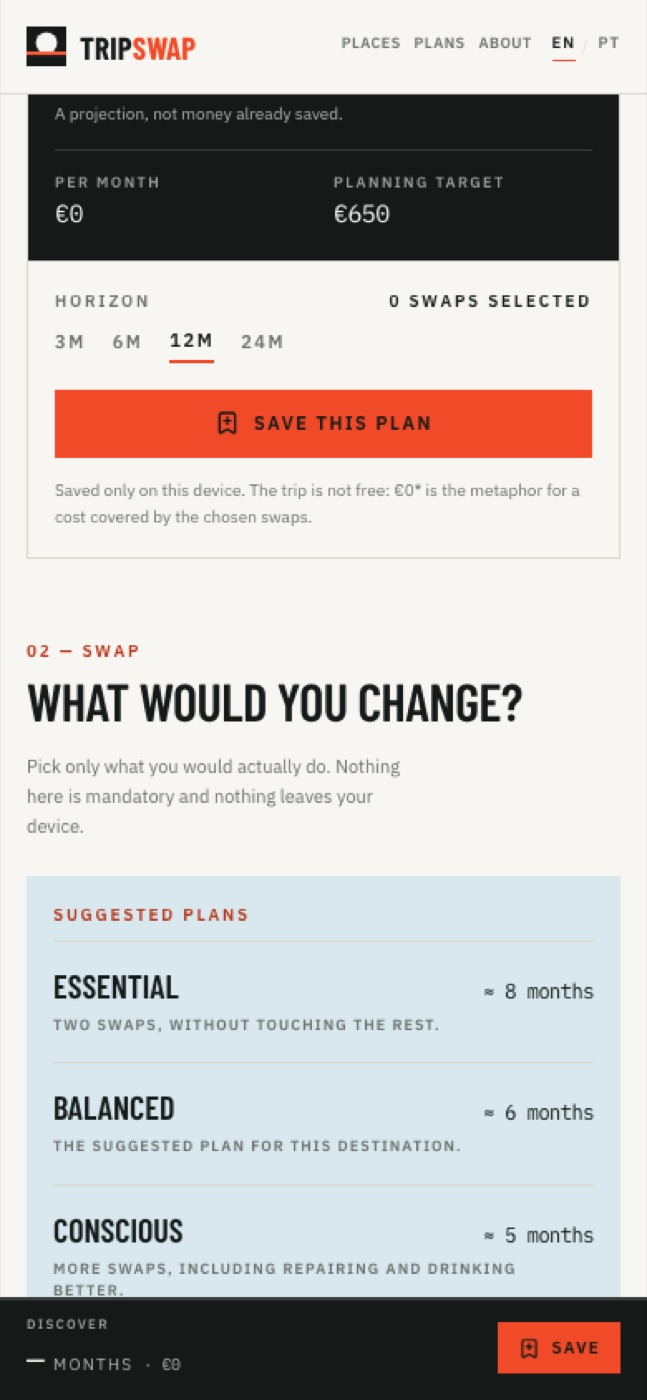
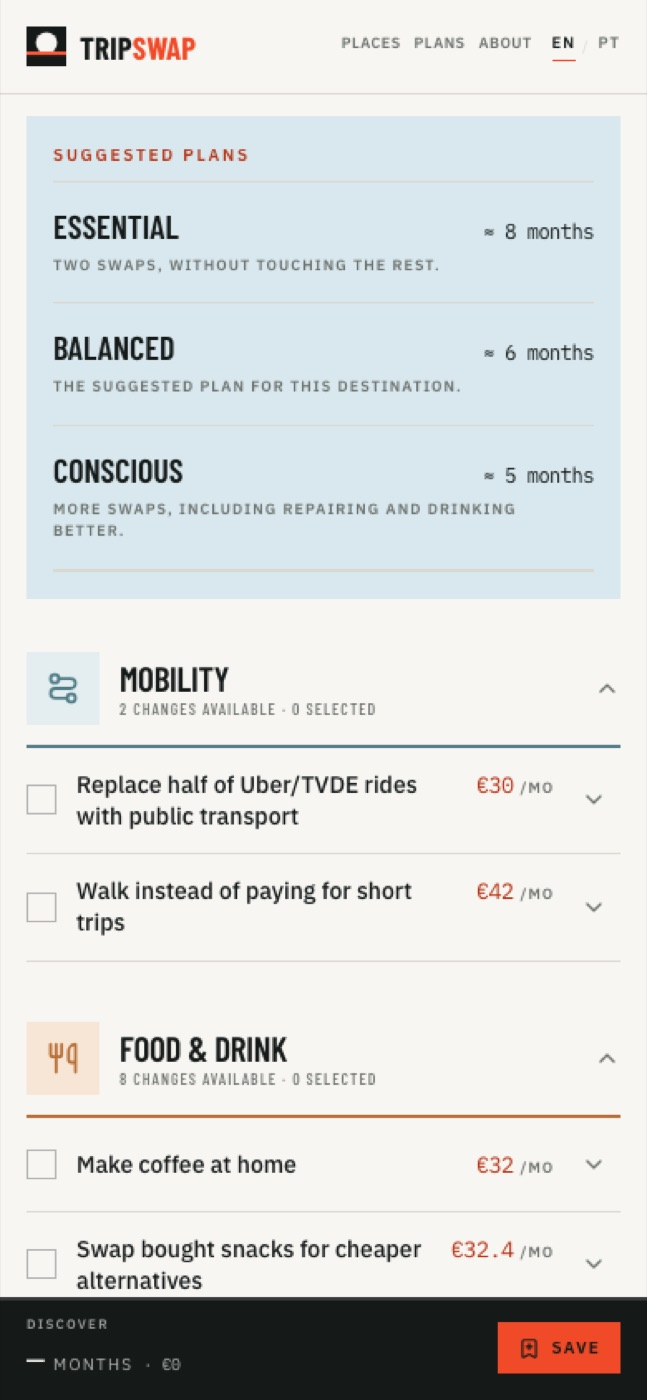
docs: document category chapters

diff --git a/docs/QA.md b/docs/QA.md
@@ -8,7 +8,7 @@ Respostas curtas, para ensaiar em voz alta. Cada linha tem o artefacto que a pro
 > o dinheiro. O TripSwap mostra o custo real de planeamento, propõe trocas pequenas e
 > calcula em quanto tempo a viagem fica ao alcance. Começa no desejo, não no orçamento.
 
-## 20 perguntas
+## 22 perguntas
 
 | # | Pergunta | Resposta curta | Artefacto |
 |---|---|---|---|
@@ -32,6 +32,8 @@ Respostas curtas, para ensaiar em voz alta. Cada linha tem o artefacto que a pro
 | 18 | Como sei que alcancei o objetivo? | O próprio cartão fica signal: check, “This is now possible.”, meses/trocas/objetivo; no mobile a barra fica signal. | `RewardPanel` |
 | 19 | O cartão muda de altura? | Não. A transformação é de cor, label e tipografia; não acrescenta secções. | caso 19, `RewardPanel` |
 | 20 | Como vejo os detalhes? | Chevron em cada atividade abre descrição, premissa e benefícios. | `HabitCard` |
+| 21 | As categorias têm identidade? | Cinco cores, ícone 44px, título 21px e resumo ao vivo. | `HabitSelector` |
+| 22 | Posso colapsar? | Sim, pelo cabeçalho; seleções e contagens mantêm-se. | `HabitSelector` |
 
 ## Frases a evitar
 

diff --git a/README.pt.md b/README.pt.md
@@ -96,11 +96,12 @@ altura, um check e **“Isto agora é possível.”** substituem o bloco neutro.
 acrescentado abaixo; só o cartão se transforma. No telemóvel, a barra de funding fica
 signal.
 
-As linhas de hábitos mostram apenas o nome, a poupança e o estado selecionado. As
-categorias são etiquetas discretas, não títulos, com um ícone pequeno; descrições,
-premissas e benefícios ficam atrás de um chevron. Os dados da viagem têm ícones, e os
-planos sugeridos vivem numa faixa azul-pálida no início do passo de troca, claramente
-separados dos dados da viagem.
+As linhas de hábitos mostram apenas o nome, a poupança e o estado selecionado;
+descrições, premissas e benefícios ficam atrás de um chevron. As categorias são
+marcadores de capítulo: ícone de 44px em fundo tingido, título de 21px, resumo ao vivo
+“N trocas disponíveis · N selecionadas” e uma regra de 2px na cor da categoria. Podem
+colapsar a partir do cabeçalho e mantêm as seleções. Os dados da viagem têm ícones, e
+os planos sugeridos vivem numa faixa azul-pálida no início do passo de troca.
 
 ![O estado de sucesso](docs/assets/success.jpg)
 

diff --git a/README.md b/README.md
@@ -95,10 +95,12 @@ reaches the target, the reward card itself turns signal: the same photo, the sam
 height, a check and **“This is now possible.”** replace the neutral info block. Nothing
 is added below; only the card transforms. On mobile the funding bar turns signal.
 
-Habit rows keep only the activity name, the saving and the selected state. Category
-labels are quiet, not headings, with a small icon; descriptions, assumptions and
-benefits sit behind a chevron. Trip facts are icon-led, and suggested plans live in a
-pale-blue band at the start of the swap step, clearly separate from the trip data.
+Habit rows keep only the activity name, the saving and the selected state; descriptions,
+assumptions and benefits sit behind a chevron. Categories are chapter markers: a 44px
+tinted icon, a 21px title, a live “N changes available · N selected” summary and a 2px
+category-coloured rule. They collapse from the header and keep selections. Trip facts
+are icon-led, and suggested plans live in a pale-blue band at the start of the swap
+step, clearly separate from the trip data.
 
 ![The success state](docs/assets/success.jpg)
 

diff --git a/docs/TESTING.md b/docs/TESTING.md
@@ -53,7 +53,7 @@ componentes: o risco do produto está na aritmética e nas sobreposições.
 - Singular/plural de meses.
 - Percentagens.
 
-## Checklist manual (20 casos)
+## Checklist manual (22 casos)
 
 Executar em http://localhost:5173 e repetir no URL público.
 
@@ -79,6 +79,8 @@ Executar em http://localhost:5173 e repetir no URL público.
 | 18 | Sucesso | Balanced em Paris transforma o cartão em signal: check, “This is now possible.”, 6 meses, 3 trocas, €650; barra mobile signal |
 | 19 | Altura estável | Medir o reward card com 0, 3 e 4 trocas: mesma altura; sem secção extra |
 | 20 | Detalhes | Chevron abre descrição, premissa e benefícios sem alterar a seleção |
+| 21 | Categorias | Título 21px, ícone 44px, resumo “N disponíveis · N selecionadas”, regra na cor |
+| 22 | Colapsar | Cabeçalho colapsa/expande com `aria-expanded`; seleções e contagem mantêm-se |
 
 Casos adicionais: `/destination/nao-existe` (404), `/unlocks` sem planos (empty state),
 imagem inexistente (fallback), `prefers-reduced-motion` (sem animações).

diff --git a/CLAUDE.md b/CLAUDE.md
@@ -122,7 +122,9 @@ docker compose up       # same dev server in a container
 - Success is explicit but layout-stable: the reward card turns signal with a check and
   “This is now possible.”; it never adds sections or changes height. The mobile funding
   bar turns signal. Saving always uses a bookmark icon.
-- Habit categories are quiet labels, not headings. Activity rows show name, saving and
+- Habit categories are editorial chapter markers: 21px title, 44px tinted icon, one of
+  five category colours, a 2px rule and a live “N available · N selected” summary. They
+  collapse from the header and preserve selections. Activity rows keep name, saving and
   selected state; descriptions, assumptions and benefits live behind a chevron.
 - The €0* is the card CTA: struck planning target above, large €0*, “Unlock this
   experience” underneath.

diff --git a/docs/ITERATIONS.md b/docs/ITERATIONS.md
@@ -44,6 +44,8 @@ commit. Os tempos são reais e incluem revisão manual.
 | 37 | 13 Nov 05:32 | Release | QA, screenshots, changelog e tag | `v1.3.1` | `chore(release): v1.3.1` | 10 min |
 | 38 | 13 Nov 05:38 | Clareza | Planos sugeridos em faixa sky; ícones na meta e categorias | Zona clara | `feat(detail): separate suggested plans from trip data` | 25 min |
 | 39 | 13 Nov 05:42 | Release | Changelog, versão e deploy | `v1.3.3` | `chore(release): v1.3.3` | 10 min |
+| 40 | 13 Nov 05:55 | Categorias | Capítulos 21/44px, cinco cores, resumo live e colapso | Navegação clara | `feat(habits): editorial category chapters` | 35 min |
+| 41 | 13 Nov 06:00 | Release | QA, screenshots, changelog e deploy | `v1.3.4` | `chore(release): v1.3.4` | 10 min |
 
 ## O que aprendi
 

diff --git a/CHANGELOG.md b/CHANGELOG.md
@@ -3,6 +3,16 @@
 Formato: [Keep a Changelog](https://keepachangelog.com/pt-PT/1.1.0/) ·
 Versionamento semântico.
 
+## [1.3.4] — 2026-11-13
+
+### Adicionado
+
+- Cabeçalhos de categoria como capítulos editoriais: 21px, ícone de 44px, cinco cores
+  (azul/teal, damasco, violeta, sálvia, rosa), regra de 2px e resumo ao vivo
+  “N trocas disponíveis · N selecionadas”.
+- Secções colapsáveis, expandidas por omissão, com `aria-expanded` e contagem de
+  selecionadas visível no cabeçalho. As seleções mantêm-se ao colapsar.
+
 ## [1.3.3] — 2026-11-13
 
 ### Alterado
